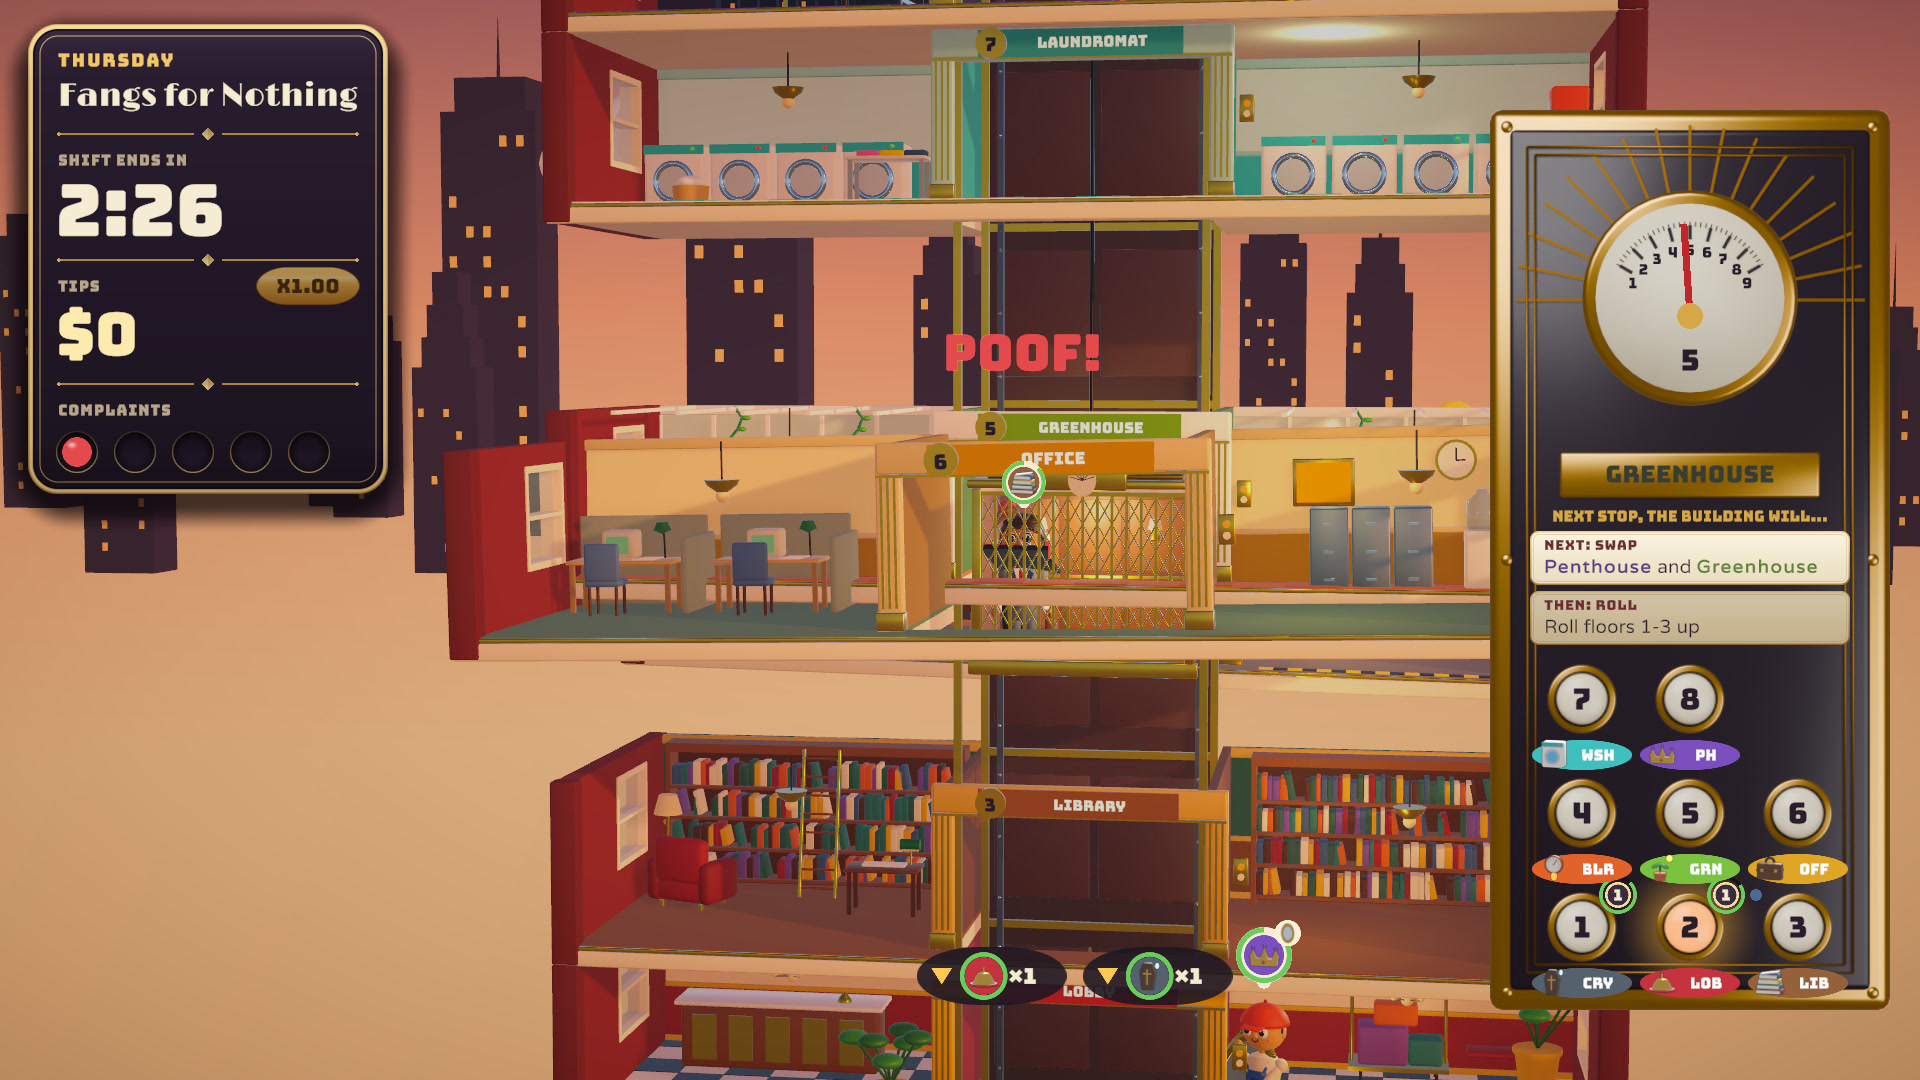
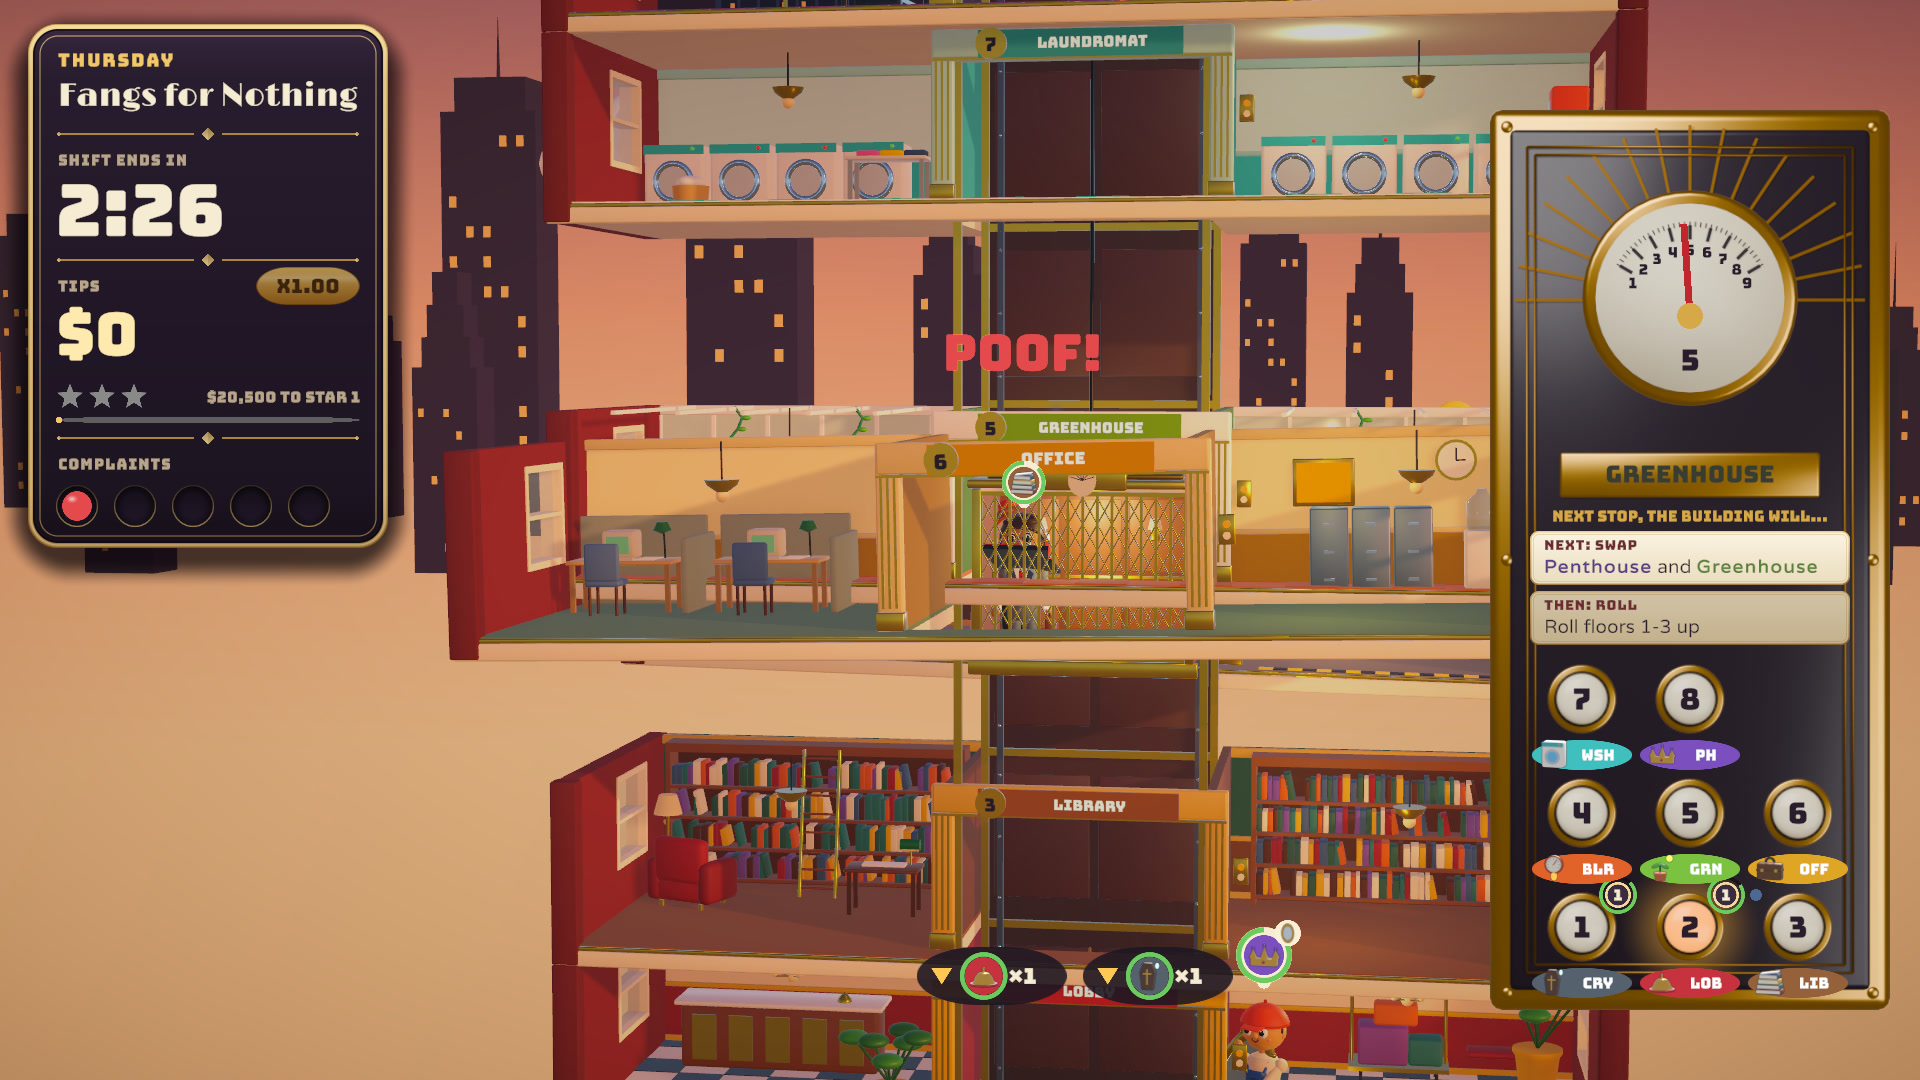
Y4: README screenshots from the current build; README covers round 5
All ten screenshots regenerated with make_trailer.sh stills (offline render, load
~21-24), each checked against its caption: they now show the star track, and the
Graveyard shot a JAM tag on the floor labels. The README describes the forecast tags,
and 'Status and known issues' covers rounds 4 and 5 as unplayed. The trailer, poster
and teaser GIF are unchanged.

Changed region(s): [[0.0, 0.3361, 0.2188, 0.55]]

diff --git a/README.md b/README.md
@@ -165,7 +165,8 @@ Hover a guest to see who they are and where they're going. Hover a floor to prev
 when a kid is aboard, where sunlight will hit a vampire or sun a plant, and how many guests get off.
 
 Labels beside the tower name every floor, with its slot number, how many guests are waiting there and, when it's
-leaving the building, how many stops it has left. They follow the floors as the building shuffles. The waiting
+leaving the building, how many stops it has left. They follow the floors as the building shuffles, and a tag on
+each one says where the next card will put it (or JAM). The waiting
 count, on the labels and on the panel's buttons, is ringed with the patience of the floor's most impatient guest:
 dark while everyone is calm, amber under half, and red and pulsing when someone is about to storm off.
 
@@ -393,8 +394,10 @@ gamepad support), and it passes its automated checks. Honest caveats:
   and Switch Pro devices. A real pad that Linux reports as a generic device is recognized by its product name
   ("Sony", "DualSense", "Nintendo", ...), which hasn't been tried with hardware. Anything unrecognized gets Xbox
   names.
-- **Round 4 additions are unplayed.** The star track, the Guest Guide and the save backup were checked by the
-  autopilot, unit tests and screenshots, not by a person. The README screenshots above predate the star track.
+- **Rounds 4 and 5 are unplayed.** The star track, the Guest Guide, the save backup, the forecast tags on the floor
+  labels and the narrower coach tip were checked by the autopilot, unit tests and screenshots, not by a person.
+  Nobody has judged yet whether the tags help or clutter the labels; the SHUFFLE FORECAST setting hides them along
+  with the panel's cards.
 - **Simple rigs.** Characters have armatures with elbows and knees, but no facial rigs or fingers. Props held in
   hand (the courier's parcel, the mirror, the kid's balloons) lock that arm.
 - **Guests are still small at full zoom-out.** Play frames the tower more tightly than the menus do, so with nine
